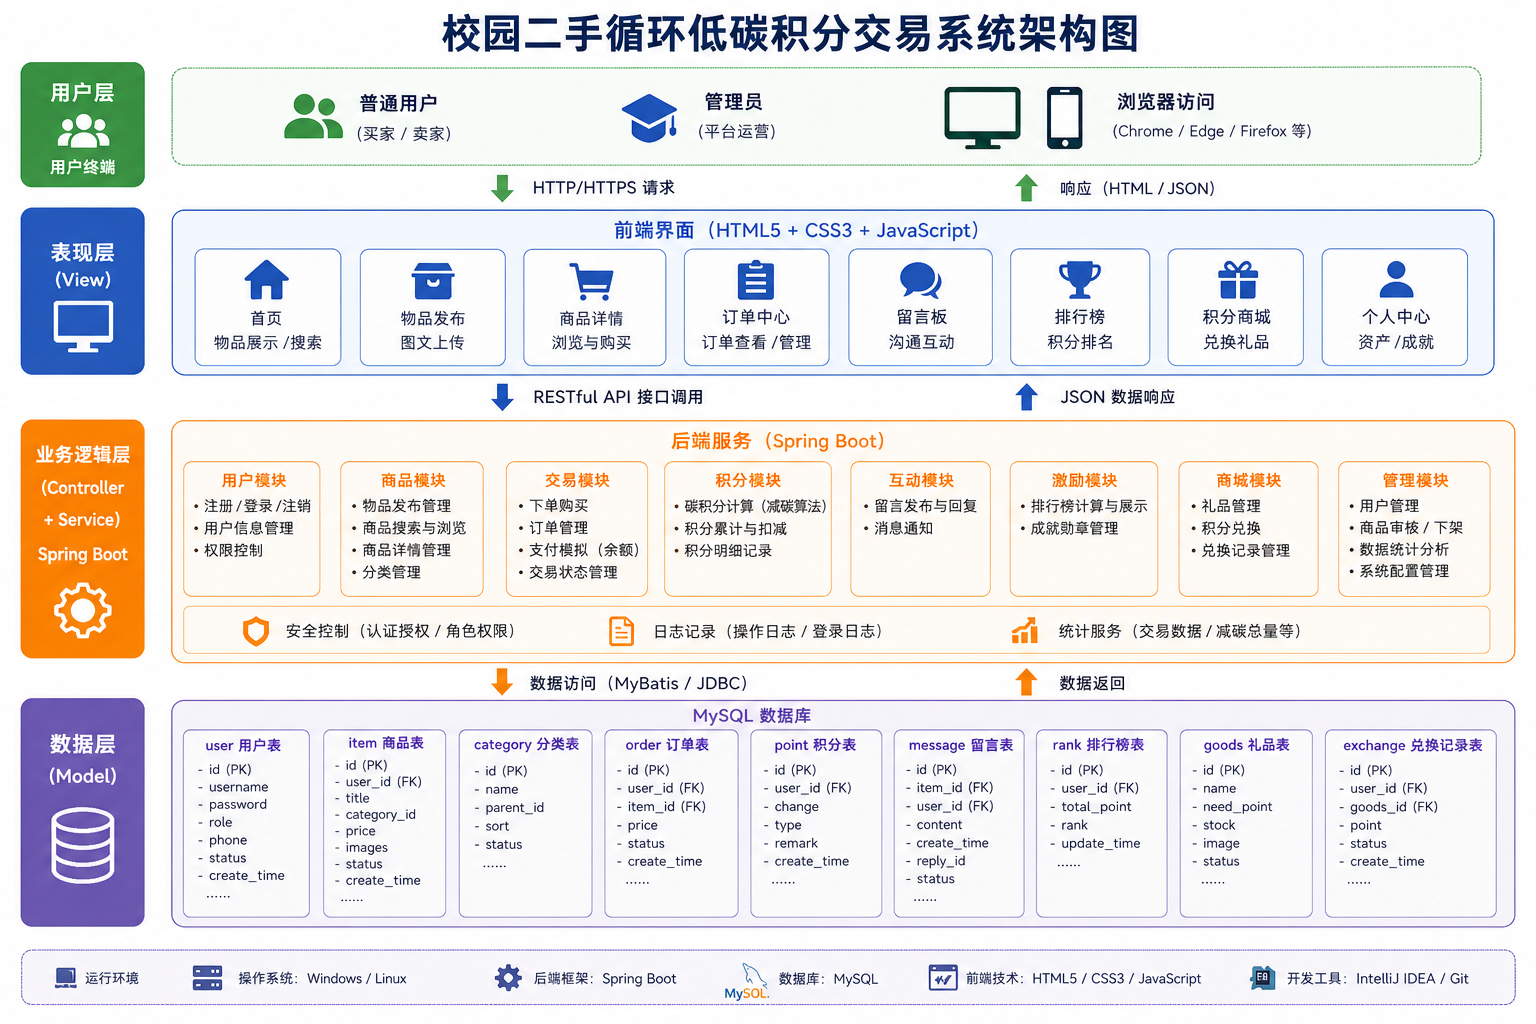
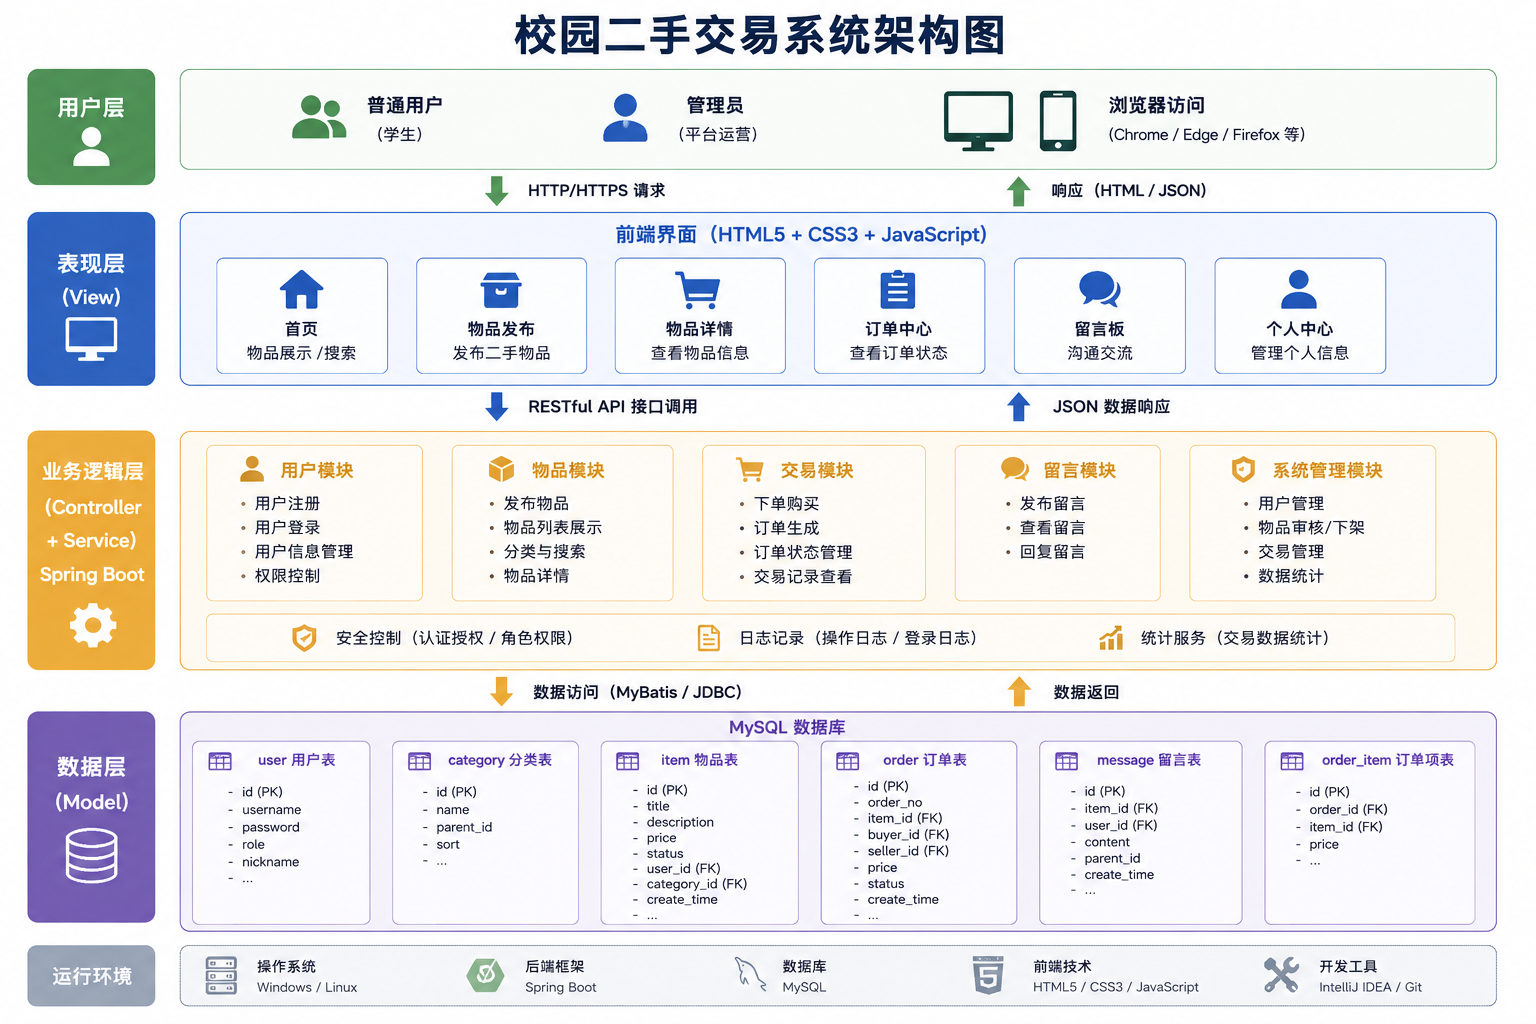
修改结项报告的系统测试部分，提交了测试用例

Changed region(s): [[0.0, 0.0, 1.0, 1.0], [0.9375, 0.0625, 0.9688, 0.0938]]

diff --git a/docs/report/中期与结项报告.md b/docs/report/中期与结项报告.md
@@ -177,7 +177,7 @@ MySQL
 | 控制层 (Controller) | Spring Boot (Controller) | 接收前端请求，调用业务逻辑层进行处理，返回响应数据 |
 | 业务逻辑层 (Service) | Spring Boot (Service) | 处理核心业务逻辑，如金额扣减、积分计算、权限校验等 |
 | 数据访问层 (DAO) | MyBatis / JPA | 封装数据库操作，与 MySQL 进行数据交互 |
-| 数据库层 | MySQL | 存储用户、物品、订单、积分记录等数据 |
+| 数据库层 | MySQL | 存储用户、物品、订单等数据 |
 
 **系统架构图：**
 
@@ -420,15 +420,199 @@ MySQL
 
 | 模块 | 测试范围 |
 | :--- | :--- |
-| 用户管理 | 注册、登录、未登录权限控制、管理员禁用/启用账号 |
-| 资产管理 | 余额查询、模拟充值、购买时余额校验及扣款 |
+| 用户管理 | 注册、登录、未登录权限控制 |
 | 物品管理 | 物品发布（含图片）、列表展示、分类筛选、关键词搜索、详情查看 |
 | 交易功能 | 下单购买、余额不足处理、购买已售物品处理、订单生成、卖家到账 |
-| 碳积分 | 下单后积分计算与累加、积分查询、积分记录展示 |
 | 留言功能 | 发布留言、查看留言、未登录无法留言 |
-| 排行榜与成就 | 排行榜数据展示、成就勋章触发与显示 |
-| 积分商店 | 礼品列表展示、积分兑换、积分扣除 |
-| 管理后台 | 用户禁用/启用、物品下架、交易记录查看、商店礼品管理 |
+
+#### 1.3 测试用例
+
+##### 模块一：用户模块（User）
+
+###### 用户注册
+
+| 用例编号 | 测试场景 | 前置条件 | 输入数据 | 预期结果 | 实际结果 |
+|----------|----------|----------|----------|----------|----------|
+| TC-UC-001 | **正常注册** | 无 | `userAccount: "newuser"`, `userName: "新用户"`, `userPwd: 双层MD5("123456")`, `userEmail: "new@campus.com"` | 注册成功，code=200，msg="注册成功" | |
+| TC-UC-002 | **重复账号注册** | admin已存在 | `userAccount: "admin"`, `userName: "重复注册"` | 注册失败，code=400，msg="账号不可用" | |
+| TC-UC-003 | **空账号注册** | 无 | `userAccount: ""`, `userName: "空账号"`, ... | 注册失败，返回错误提示 | |
+| TC-UC-004 | **空密码注册** | 无 | `userAccount: "test1"`, `userPwd: ""` | 注册失败，返回错误提示 | |
+| TC-UC-005 | **短账号注册** | 无 | `userAccount: "ab"` | 注册失败或成功（视后端校验规则） | |
+
+###### 用户登录
+
+| 用例编号 | 测试场景 | 前置条件 | 输入数据 | 预期结果 | 实际结果 |
+|----------|----------|----------|----------|----------|----------|
+| TC-UL-001 | **管理员正常登录** | admin已存在 | `userAccount: "admin"`, `userPwd: "双层MD5(123456)"` | 登录成功，返回token，role=1 | |
+| TC-UL-002 | **普通用户正常登录** | zhangsan已存在 | `userAccount: "zhangsan"`, `userPwd: "双层MD5(123456)"` | 登录成功，返回token，role=2 | |
+| TC-UL-003 | **错误密码登录** | admin已存在 | `userAccount: "admin"`, `userPwd: "wrongpwd"` | 登录失败，code=400，msg="密码错误" | |
+| TC-UL-004 | **不存在的账号登录** | 无 | `userAccount: "notexist"`, `userPwd: "双层MD5(123456)"` | 登录失败，code=400，msg="账号不存在" | |
+| TC-UL-005 | **空账号登录** | 无 | `userAccount: ""`, `userPwd: "双层MD5(123456)"` | 登录失败，返回错误提示 | |
+| TC-UL-006 | **空密码登录** | 无 | `userAccount: "admin"`, `userPwd: ""` | 登录失败，返回错误提示 | |
+| TC-UL-007 | **特殊字符密码登录** | 无 | `userAccount: "admin"`, `userPwd: "!@#$%^&*"` | 登录失败，密码错误 | |
+
+###### 用户查询（管理员专用）
+
+| 用例编号 | 测试场景 | 前置条件 | 输入数据 | 预期结果 | 实际结果 |
+|----------|----------|----------|----------|----------|----------|
+| TC-UQ-001 | **管理员正常查询全部用户** | admin登录 | `{"current":1, "size":5}` | 返回用户列表，total=16 | |
+| TC-UQ-002 | **管理员按账号模糊查询** | admin登录 | `{"current":1, "size":10, "userAccount":"zhang"}` | 返回匹配"zhang"的用户 | |
+| TC-UQ-003 | **管理员按昵称模糊查询** | admin登录 | `{"current":1, "size":10, "userName":"小"}` | 返回所有含"小"的用户 | |
+| TC-UQ-004 | **管理员按角色筛选** | admin登录 | `{"current":1, "size":10, "userRole":1}` | 只返回管理员 | |
+
+###### 用户信息修改
+
+| 用例编号 | 测试场景 | 前置条件 | 输入数据 | 预期结果 | 实际结果 |
+|----------|----------|----------|----------|----------|----------|
+| TC-UM-001 | **正常修改个人信息** | zhangsan登录 | `{"userName":"张三改名", "userEmail":"new@campus.com"}` | 修改成功，code=200 | |
+| TC-UM-002 | **修改空昵称** | zhangsan登录 | `{"userName":""}` | 修改成功或报错（视校验规则） | |
+| TC-UM-003 | **管理员后台修改用户** | admin登录 | `{"id":2, "userName":"后台改名"}` | 修改成功 | |
+
+###### 修改密码
+
+| 用例编号 | 测试场景 | 前置条件 | 输入数据 | 预期结果 | 实际结果 |
+|----------|----------|----------|----------|----------|----------|
+| TC-UP-001 | **正常修改密码** | zhangsan登录 | `{"oldPwd":"双层MD5(123456)", "newPwd":"双层MD5(654321)", "againPwd":"双层MD5(654321)"}` | 修改成功 | |
+| TC-UP-002 | **旧密码错误** | zhangsan登录 | `{"oldPwd":"wrong", "newPwd":"new", "againPwd":"new"}` | 修改失败，"原始密码验证失败" | |
+| TC-UP-003 | **两次新密码不一致** | zhangsan登录 | `{"oldPwd":"正确旧密码", "newPwd":"pwd1", "againPwd":"pwd2"}` | 修改失败，"前后密码输入不一致" | |
+| TC-UP-004 | **新密码为空** | zhangsan登录 | `{"oldPwd":"正确旧密码", "newPwd":"", "againPwd":""}` | 修改失败，"请输入新密码" | |
+
+---
+
+##### 模块二：商品模块（Product）
+
+###### 商品查询
+
+| 用例编号 | 测试场景 | 前置条件 | 输入数据 | 预期结果 | 实际结果 |
+|----------|----------|----------|----------|----------|----------|
+| TC-PQ-001 | **分页查询全部商品** | 无需登录 | `{"current":1, "size":10}` | 返回商品列表，total=20 | |
+| TC-PQ-002 | **查询第2页商品** | 无需登录 | `{"current":2, "size":5}` | 返回第2页5条数据 | |
+| TC-PQ-003 | **查询超出范围页** | 无需登录 | `{"current":10, "size":10}` | 返回空列表 | |
+| TC-PQ-004 | **不传分页参数** | 无需登录 | `{}` | 返回错误或全量数据 | |
+
+###### 发布商品
+
+| 用例编号 | 测试场景 | 前置条件 | 输入数据 | 预期结果 | 实际结果 |
+|----------|----------|----------|----------|----------|----------|
+| TC-PS-001 | **正常发布商品** | zhangsan登录 | `{"name":"测试商品","detail":"描述","coverList":["a.jpg"],"oldLevel":8,"categoryId":1,"inventory":1,"price":100,"isBargain":1}` | 发布成功 | |
+| TC-PS-002 | **商品名称为空** | zhangsan登录 | 其他字段正常，name="" | 发布失败或成功 | |
+| TC-PS-003 | **价格为负数** | zhangsan登录 | `{"price":-1}` | 发布失败 | |
+| TC-PS-004 | **库存为0** | zhangsan登录 | `{"inventory":0}` | 发布成功（无库存商品） | |
+
+###### 查询我的商品
+
+| 用例编号 | 测试场景 | 前置条件 | 输入数据 | 预期结果 | 实际结果 |
+|----------|----------|----------|----------|----------|----------|
+| TC-MP-001 | **查询自己的商品** | zhangsan登录 | `{"current":1, "size":10}` | 只返回zhangsan发布的商品 | |
+| TC-MP-002 | **未登录查询自己的商品** | 无 | 不带token | 返回身份认证异常 | |
+
+###### 商品下单
+
+| 用例编号 | 测试场景 | 前置条件 | 输入数据 | 预期结果 | 实际结果 |
+|----------|----------|----------|----------|----------|----------|
+| TC-PB-001 | **正常下单购买** | zhangsan登录 | `{"productId":2,"buyNumber":1,"detail":"测试下单"}` | 下单成功 | |
+| TC-PB-002 | **库存不足下单** | zhangsan登录 | `{"productId":1,"buyNumber":999}` | 下单失败，库存不足 | |
+| TC-PB-003 | **购买自己的商品** | zhangsan登录 | `productId=zhangsan发布的商品` | 下单成功或报错 | |
+| TC-PB-004 | **购买数量为0** | zhangsan登录 | `{"productId":2,"buyNumber":0}` | 下单失败 | |
+
+###### 确认订单 
+
+| 用例编号 | 测试场景 | 前置条件 | 输入数据 | 预期结果 | 实际结果 |
+|----------|----------|----------|----------|----------|----------|
+| TC-PC-001 | **确认订单** | 已有订单ID | ordersId=有效订单ID | 确认成功 | |
+| TC-PC-002 | **确认不存在的订单** | 无 | ordersId=999 | 确认失败 | |
+
+---
+
+##### 模块三：订单模块（Orders）
+
+###### 订单查询
+
+| 用例编号 | 测试场景 | 前置条件 | 输入数据 | 预期结果 | 实际结果 |
+|----------|----------|----------|----------|----------|----------|
+| TC-OQ-001 | **管理员查询全部订单** | admin登录 | `{"current":1, "size":10}` | 返回所有订单列表 | |
+| TC-OQ-002 | **用户查询我的订单** | zhangsan登录 | `{"current":1, "size":10}` | 只返回zhangsan的订单 | |
+| TC-OQ-003 | **查询我发布的商品的订单** | zhangsan登录 | `{"current":1, "size":10}` | 返回zhangsan的商品被下的订单 | |
+| TC-OQ-004 | **未登录查询订单** | 无 | 不带token | 返回身份认证异常 | |
+
+---
+
+##### 模块四：商品类别模块（Category）
+
+###### 类别 CRUD
+
+| 用例编号 | 测试场景 | 前置条件 | 输入数据 | 预期结果 | 实际结果 |
+|----------|----------|----------|----------|----------|----------|
+| TC-CS-001 | **新增类别（管理员）** | admin登录 | `{"name":"测试分类"}` | 新增成功 | |
+| TC-CS-002 | **新增空名称类别** | admin登录 | `{"name":""}` | 新增失败 | |
+| TC-CS-003 | **新增重复名称类别** | admin登录 | `{"name":"电子产品"}` | 新增成功或失败（视后端是否有唯一校验） | |
+| TC-CS-004 | **普通用户新增类别** | zhangsan登录 | `{"name":"测试"}` | 可新增（该接口无@Protector限制） | |
+| TC-CQ-001 | **分页查询类别** | 无需登录 | `{"current":1, "size":50}` | 返回类别列表 | |
+| TC-CU-001 | **修改类别名称** | admin登录 | `{"id":1, "name":"电子数码"}` | 修改成功 | |
+| TC-CD-001 | **管理员批量删除类别** | admin登录 | `[20]` | 删除成功 | |
+| TC-CD-002 | **普通用户删除类别（权限测试）** | zhangsan登录 | `[19]` | 返回无操作权限，code=400 | |
+
+---
+
+##### 模块五：评论模块（Evaluations）
+
+###### 评论 CRUD
+
+| 用例编号 | 测试场景 | 前置条件 | 输入数据 | 预期结果 | 实际结果 |
+|----------|----------|----------|----------|----------|----------|
+| TC-ES-001 | **发表评论** | 用户登录 | `{"contentId":1, "contentType":"product", "content":"测试评论"}` | 评论成功 | |
+| TC-EQ-001 | **查看商品评论（嵌套树）** | 用户登录 | GET `/evaluations/list/1/product` | 返回嵌套评论树结构 | |
+| TC-EQ-002 | **查看无评论的商品** | 用户登录 | GET `/evaluations/list/999/product` | 返回空列表 | |
+| TC-EQ-003 | **分页查询评论（管理员）** | admin登录 | `{"current":1, "size":10}` | 返回评论列表 | |
+| TC-ED-001 | **删除自己的评论** | 用户登录 | DELETE `/evaluations/delete/{自己的评论ID}` | 删除成功 | |
+| TC-ED-002 | **删除他人的评论** | 用户登录 | DELETE `/evaluations/delete/{他人的评论ID}` | 删除成功或失败 | |
+
+---
+
+##### 模块六：互动模块（Interaction）
+
+###### 互动操作
+
+| 用例编号 | 测试场景 | 前置条件 | 输入数据 | 预期结果 | 实际结果 |
+|----------|----------|----------|----------|----------|----------|
+| TC-IL-001 | **"我想要"操作** | 用户登录 | POST `/interaction/likeProduct/1` | 操作成功 | |
+| TC-IL-002 | **重复"我想要"** | 用户登录 | POST `/interaction/likeProduct/1`（再点一次） | 操作成功或取消 | |
+| TC-IL-003 | **对不存在的商品"我想要"** | 用户登录 | POST `/interaction/likeProduct/999` | 操作失败 | |
+| TC-IS-001 | **收藏商品** | 用户登录 | POST `/interaction/saveOperation/1` | 收藏成功，返回true | |
+| TC-IS-002 | **取消收藏（再次点击）** | 已收藏商品1 | POST `/interaction/saveOperation/1` | 取消收藏，返回false | |
+| TC-IS-003 | **重复取消收藏** | 未收藏商品1 | POST `/interaction/saveOperation/1`（再点一次） | 收藏成功，返回true | |
+| TC-IV-002 | **多次浏览同一商品** | 用户登录 | POST `/interaction/view/3`（重复3次） | 记录多次或只保留一次 | |
+| TC-IQ-001 | **查看收藏列表** | 用户登录 | POST `/interaction/queryUser` | 返回收藏的商品列表 | |
+| TC-IQ-002 | **无收藏时查看收藏列表** | 新注册用户 | POST `/interaction/queryUser` | 返回空列表 | |
+| TC-IM-001 | **查看浏览记录** | 用户登录 | POST `/interaction/myView` | 返回浏览过的商品列表 | |
+| TC-ID-001 | **清空自己的浏览记录** | 用户登录 | POST `/interaction/batchDeleteView` | 清空成功 | |
+| TC-ID-002 | **未登录操作互动** | 无 | 不带token | 返回身份认证异常 | |
+
+---
+
+##### 模块七：消息模块（Message）
+
+###### 消息操作
+
+| 用例编号 | 测试场景 | 前置条件 | 输入数据 | 预期结果 | 实际结果 |
+|----------|----------|----------|----------|----------|----------|
+| TC-MQ-001 | **查询我的消息** | 用户登录 | `{"current":1, "size":10}` | 返回当前用户的消息列表 | |
+| TC-MQ-002 | **管理员查询全部消息** | admin登录 | `{"current":1, "size":10}` | 返回所有用户的消息 | |
+| TC-MR-001 | **全部标记为已读** | 用户登录（有未读消息） | POST `/message/setRead` | 所有消息标记为已读 | |
+| TC-MR-002 | **无未读消息时标记** | 用户登录（全部已读） | POST `/message/setRead` | 操作成功，无变化 | |
+| TC-MD-001 | **删除消息** | 用户登录 | `[1]` | 删除成功 | |
+
+---
+
+##### 模块八：操作日志模块（OperationLog）
+
+###### 日志操作（仅管理员）
+
+| 用例编号 | 测试场景 | 前置条件 | 输入数据 | 预期结果 | 实际结果 |
+|----------|----------|----------|----------|----------|----------|
+| TC-OLQ-001 | **查询操作日志** | admin登录 | `{"current":1, "size":10}` | 返回日志列表 | |
+| TC-OLQ-002 | **分页查询第2页** | admin登录 | `{"current":2, "size":5}` | 返回第2页数据 | |
+| TC-OLD-001 | **批量删除日志** | admin登录 | `[1,2,3]` | 删除成功 | |
 
 
 ### 2. 测试结果
